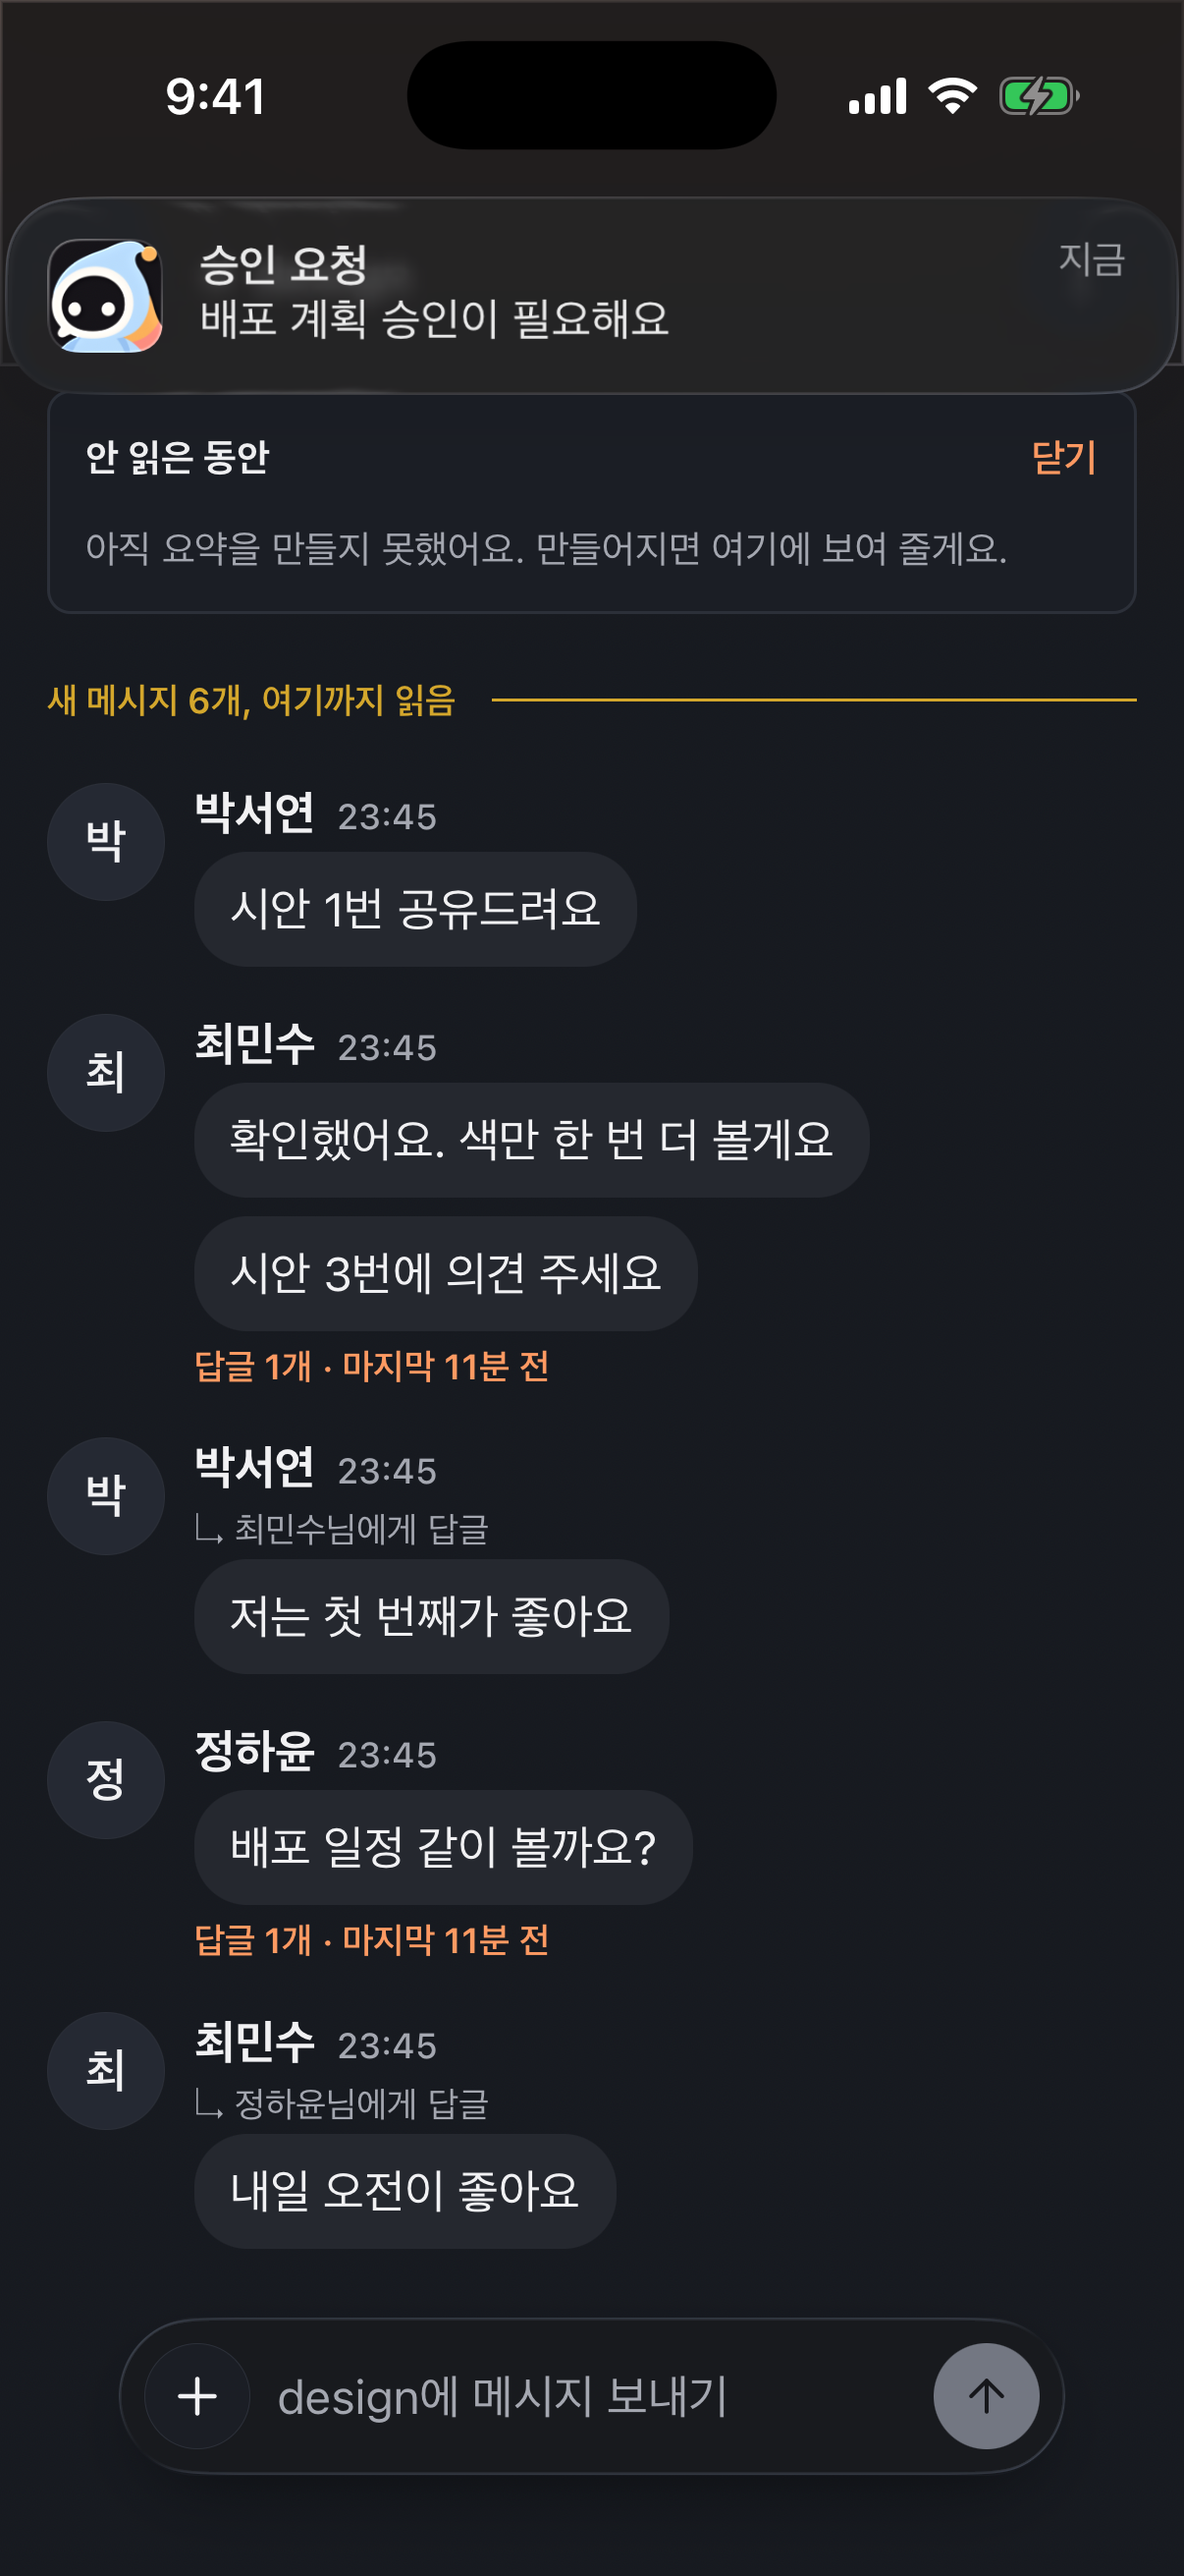
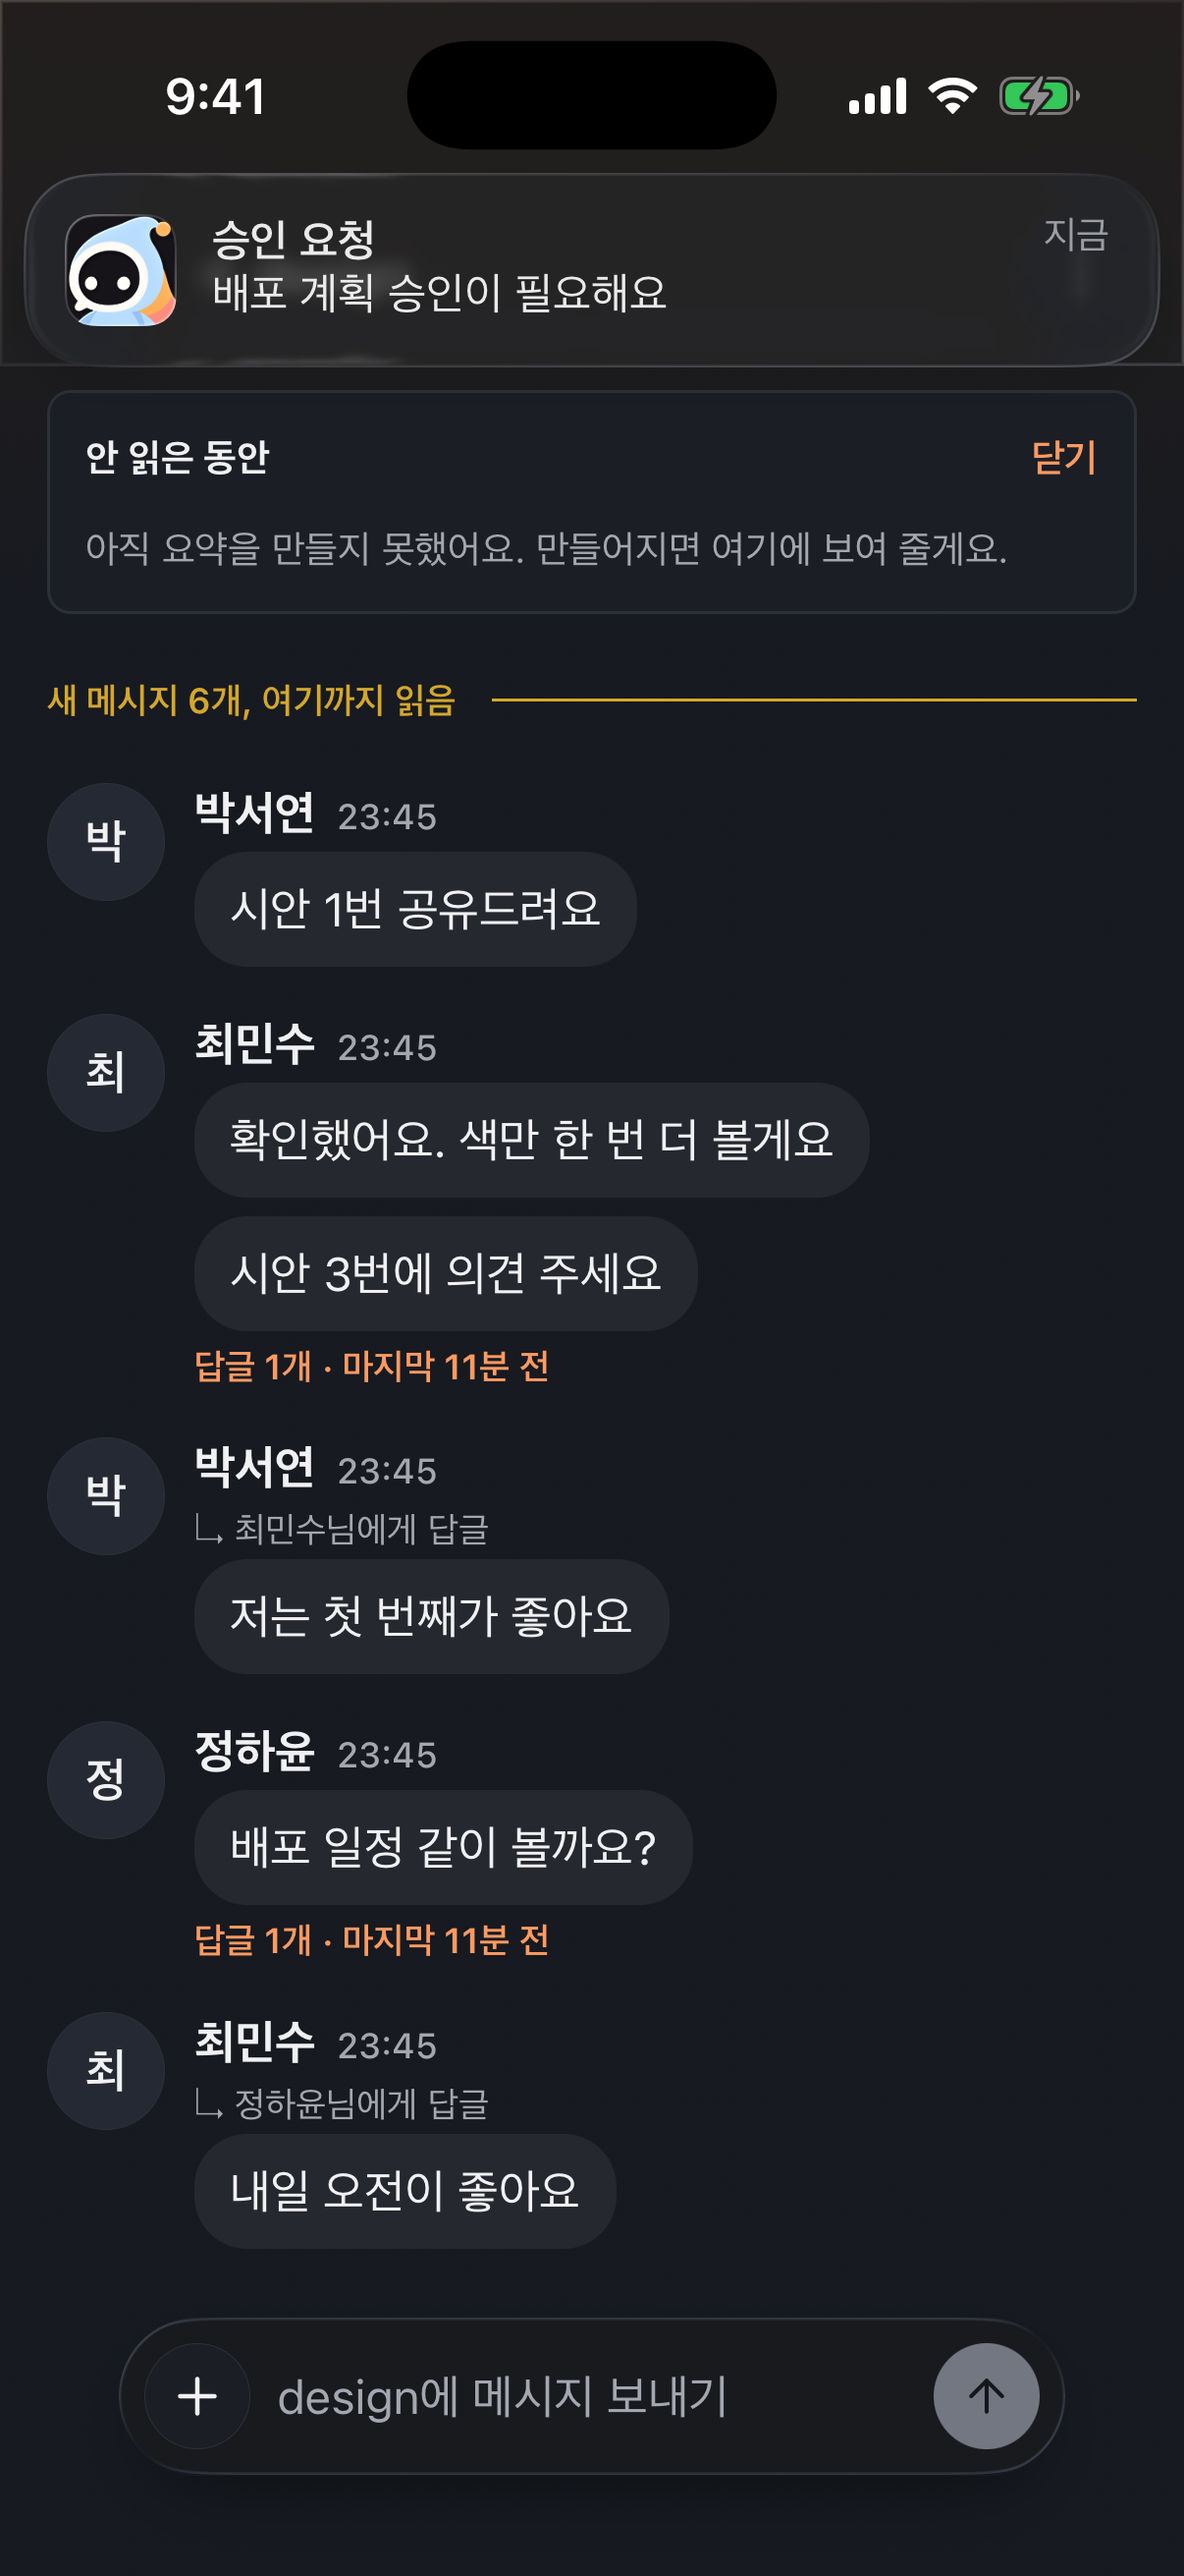
docs(mobile): #4310 설계 검수 r1 반영 — 안착한 승인 배너 프레임으로 교체, 전 프레임 2장 추가, 주장을 측정 사실로 조정
- 캡처: dark-05 를 입장 애니메이션 도중 프레임에서 안착 프레임으로 바꾸고, 같은 채널 푸시의 전 프레임
  (light-02a·dark-02a)을 더한다(16장). 후 프레임과 비교하면 라이트는 픽셀 단위로 같고 다크는 컴포저 도크
  그림자의 최대 2/255 차이뿐이다.
- docs/cicd/11: 「픽셀 단위로 같다」를 위 측정으로 좁히고, 알림 센터 주장은 묶음 배지와 로그의 shown 수가
  맞는다는 사실로 쓴다.
- 시험 이름·주석: 스레드 판이 열린 채 본류 알림을 숨기는 규칙은 미결이 아니라 기획 결정 3 이다.

Changed region(s): [[0.0, 0.0618, 0.5522, 0.1545], [0.8897, 0.0927, 0.9511, 0.1236], [0.9511, 0.1236, 0.9818, 0.1545]]

diff --git a/clients/mobile/__tests__/foregroundPresentation4310.test.tsx b/clients/mobile/__tests__/foregroundPresentation4310.test.tsx
@@ -305,9 +305,9 @@ describe('결정: 보고 있는 대화의 알림만 숨긴다', () => {
 
   // 문면 그대로의 규칙이다: 「같은 채널(스레드 알림이면 같은 스레드)」. 스레드 판이 채널을 덮고 있어도
   // 같은 채널의 본류 알림은 숨긴다 — 서버의 「보고 있음」 신호(`useViewingBeat`)가 채널 단위로 같은
-  // 판정을 이미 내리고 있어서 이 폰의 규칙이 서버와 같다. 이 경계가 맞는지는 기획의 결정 대기이며(진행 기록),
-  // 바꾸려면 이 줄과 `decideForeground` 가 함께 바뀐다.
-  it('스레드 판이 열려 있어도 같은 채널 본류의 알림은 숨긴다 (미결 결정 — 서버 presence 와 같은 단위)', () => {
+  // 판정을 이미 내리고 있어서 이 폰의 규칙이 서버와 같다. 이 경계는 기획 결정 3 으로 확정됐다(스레드 판이 열려
+  // 있어도 본류 알림은 숨긴다). 바꾸려면 이 줄과 `decideForeground` 가 함께 바뀐다.
+  it('스레드 판이 열려 있어도 같은 채널 본류의 알림은 숨긴다 (결정 3 — 서버 presence 와 같은 단위)', () => {
     expect(
       decideForeground(relayPayload({channelId: DESIGN}), VIEWING_DESIGN_THREAD),
     ).toEqual({show: false, why: 'viewing'});

diff --git a/docs/cicd/11-ios-push-device-check.md b/docs/cicd/11-ios-push-device-check.md
@@ -310,8 +310,9 @@ E 의 18칸(+ 아래 4칸):
     그 비교가 서버 비교를 겸한다.
   - **시뮬레이터에서 확인했다**(2026-10-26, 16 Pro·iOS 26.5, 로컬 격리 스택, `xcrun simctl push` 로 릴레이 `ApnsPayload`
     와 같은 키의 봉투, 가상 인물·가상 회사): 다른 대화 DM → 배너 + 알림 센터 목록(라이트·다크). 같은 채널을 보는 중 →
-    배너 없음, **화면이 푸시 전후로 픽셀 단위로 같다**, 알림 센터에도 남지 않는다(양성 대조: 보인 푸시는 목록에 있고
-    숨긴 푸시 다섯 건은 없다 — 묶음 개수가 보인 푸시 수와 정확히 같다). 열린 스레드의 답글은 숨고 다른 스레드의 답글은
+    배너 없음, **화면이 푸시 전후로 같다**(전 프레임 `…02a` 와 후 프레임 `…02` 를 비교해 라이트는 픽셀 단위로 완전히 같고,
+    다크는 컴포저 도크 그림자의 최대 2/255 차이뿐이다), 알림 센터에도 남지 않는다(양성 대조: 보인 푸시는 목록에 있다. 모든 장면 뒤의
+    목록 `dark-08` 의 묶음 배지는 로그에 `shown` 으로 찍힌 푸시의 개수와 맞고, `hidden` 으로 찍힌 푸시 다섯 건은 어느 묶음에도 없다). 열린 스레드의 답글은 숨고 다른 스레드의 답글은
     배너. 승인 두 카테고리·못 읽는 봉투는 같은 방에서도 배너. 앱이 배경이면 처리기 로그가 없고 iOS 가 직접 배너. 배너를
     누르면 `[push] tap -> open` 으로 그 DM 에 착지. 로그 줄은 위 «로그 보는 법».
   - **콜드 스타트 틈(남은 위험).** 처리기는 JS 가 돌기 시작한 뒤에야 걸리므로 그 전에 온 푸시는 여전히 iOS 기본으로
